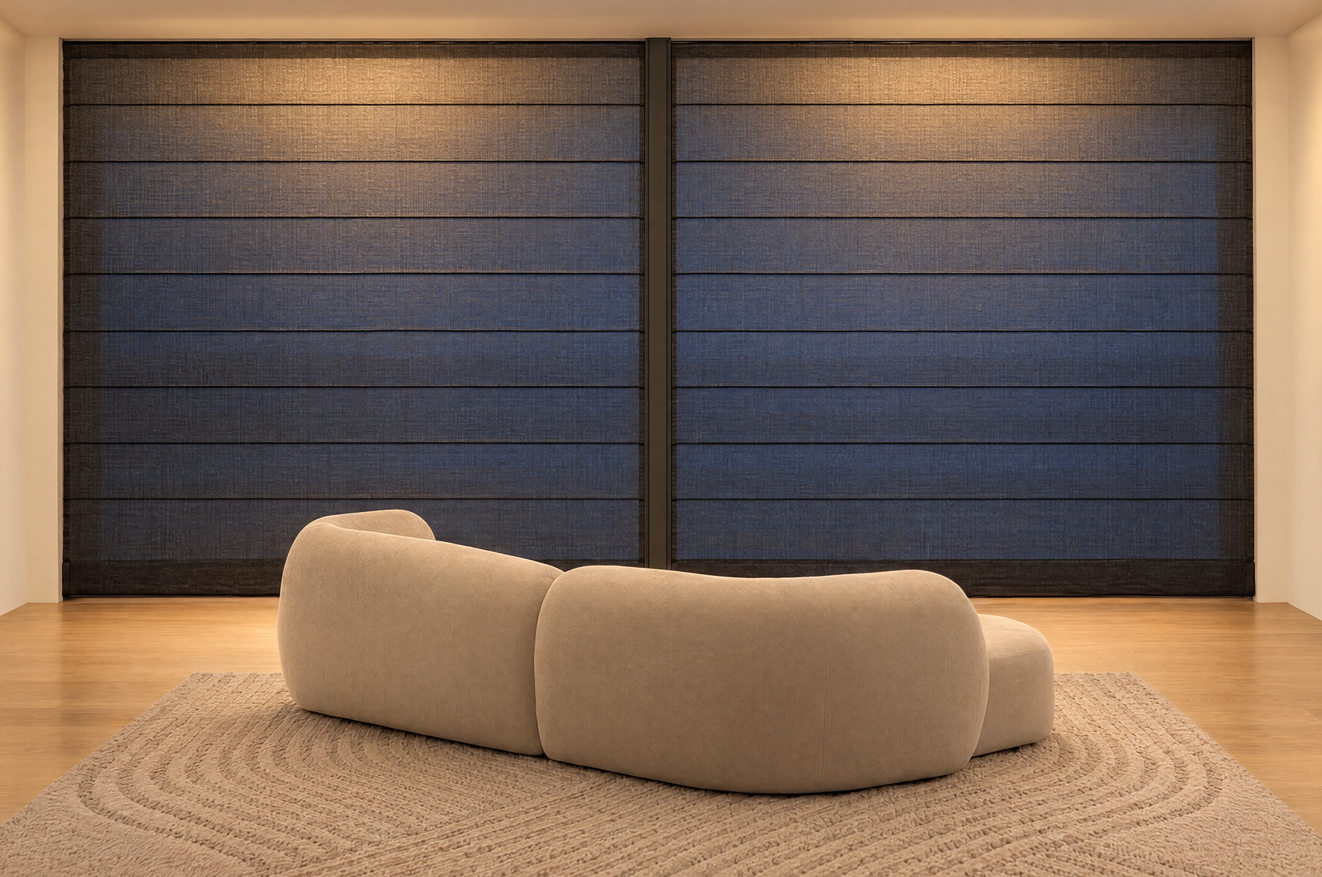
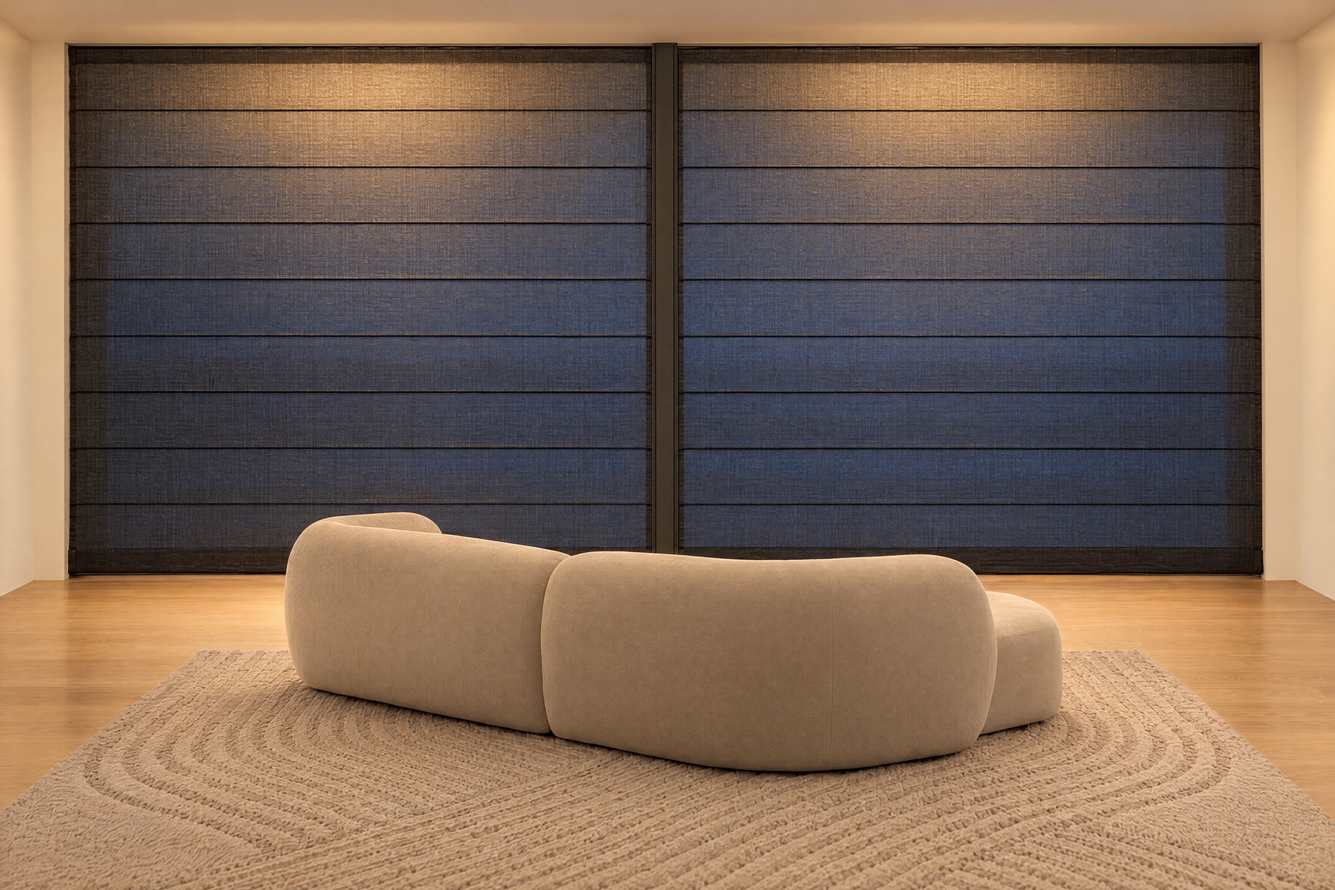
« L'atelier vient à vous, et c'est offert » de /stores-sur-mesure montre les stores bateau du soir, immobiles, à la place du fondu jour et soir (#120)
* « L'atelier vient à vous, et c'est offert » de /stores-sur-mesure montre les stores bateau du soir, immobiles, dans l'image d'origine sans recalage, à la place du fondu jour et soir où le canapé grandissait ; RomanBlindsEvening remplace RomanBlindsThroughTheDay, l'image du jour quitte le dépôt, le fondu des stores vénitiens inchangé

* RomanBlindsEvening montre l'image d'origine des stores bateau du soir, 3504x2336 sans recalage, à la place de RomanBlindsThroughTheDay dans « L'atelier vient à vous, et c'est offert »

---------

Changed region(s): [[0.0, 0.0312, 1.0, 1.0], [0.0933, 0.5, 0.871, 0.5312]]

diff --git a/src/app/_components/visuals.tsx b/src/app/_components/visuals.tsx
@@ -146,18 +146,16 @@ export const VenetianBlindsThroughTheDay = () => (
   />
 );
 
-export const RomanBlindsThroughTheDay = () => (
-  <CrossfadeCycle
-    sources={[
-      "/visuals/stores-bateau-salon-jour.jpg",
-      "/visuals/stores-bateau-salon-soir.jpg",
-    ]}
-    still={0}
-    width={3472}
-    height={2304}
-    alt="Un salon aux murs blancs, un canapé arrondi écru sur un tapis à motifs de vagues devant deux grands stores bateau en tissu gris tissé, baissés : le jour, le soleil filtre à travers la toile ; le soir, une lumière chaude éclaire le haut des stores."
-    sizes="100vw"
-  />
+export const RomanBlindsEvening = () => (
+  <figure>
+    <Image
+      src="/visuals/stores-bateau-salon-soir.jpg"
+      width={3504}
+      height={2336}
+      alt="Un salon aux murs clairs le soir, un canapé arrondi écru sur un tapis à motifs de vagues devant deux grands stores bateau en tissu tissé, baissés, éclairés en haut d'une lumière chaude."
+      sizes="100vw"
+    />
+  </figure>
 );
 
 export const CopperCurtains = () => (

diff --git a/src/app/stores-sur-mesure/page.tsx b/src/app/stores-sur-mesure/page.tsx
@@ -24,7 +24,7 @@ import { ServicesSection } from "../_components/services_section";
 import { SectionSubtitle, SectionTitle } from "../_components/typography";
 import {
   CurtainWrappedGifts,
-  RomanBlindsThroughTheDay,
+  RomanBlindsEvening,
   SunlightThroughBlinds,
   VenetianBlindsThroughTheDay,
 } from "../_components/visuals";
@@ -105,7 +105,7 @@ const CustomBlinds = () => (
 
         <WideVisualSection
           action={<Actions tone="secondary" />}
-          visual={<RomanBlindsThroughTheDay />}
+          visual={<RomanBlindsEvening />}
         >
           <SectionTitle>L'atelier vient à vous, et c'est offert</SectionTitle>
           <p>
